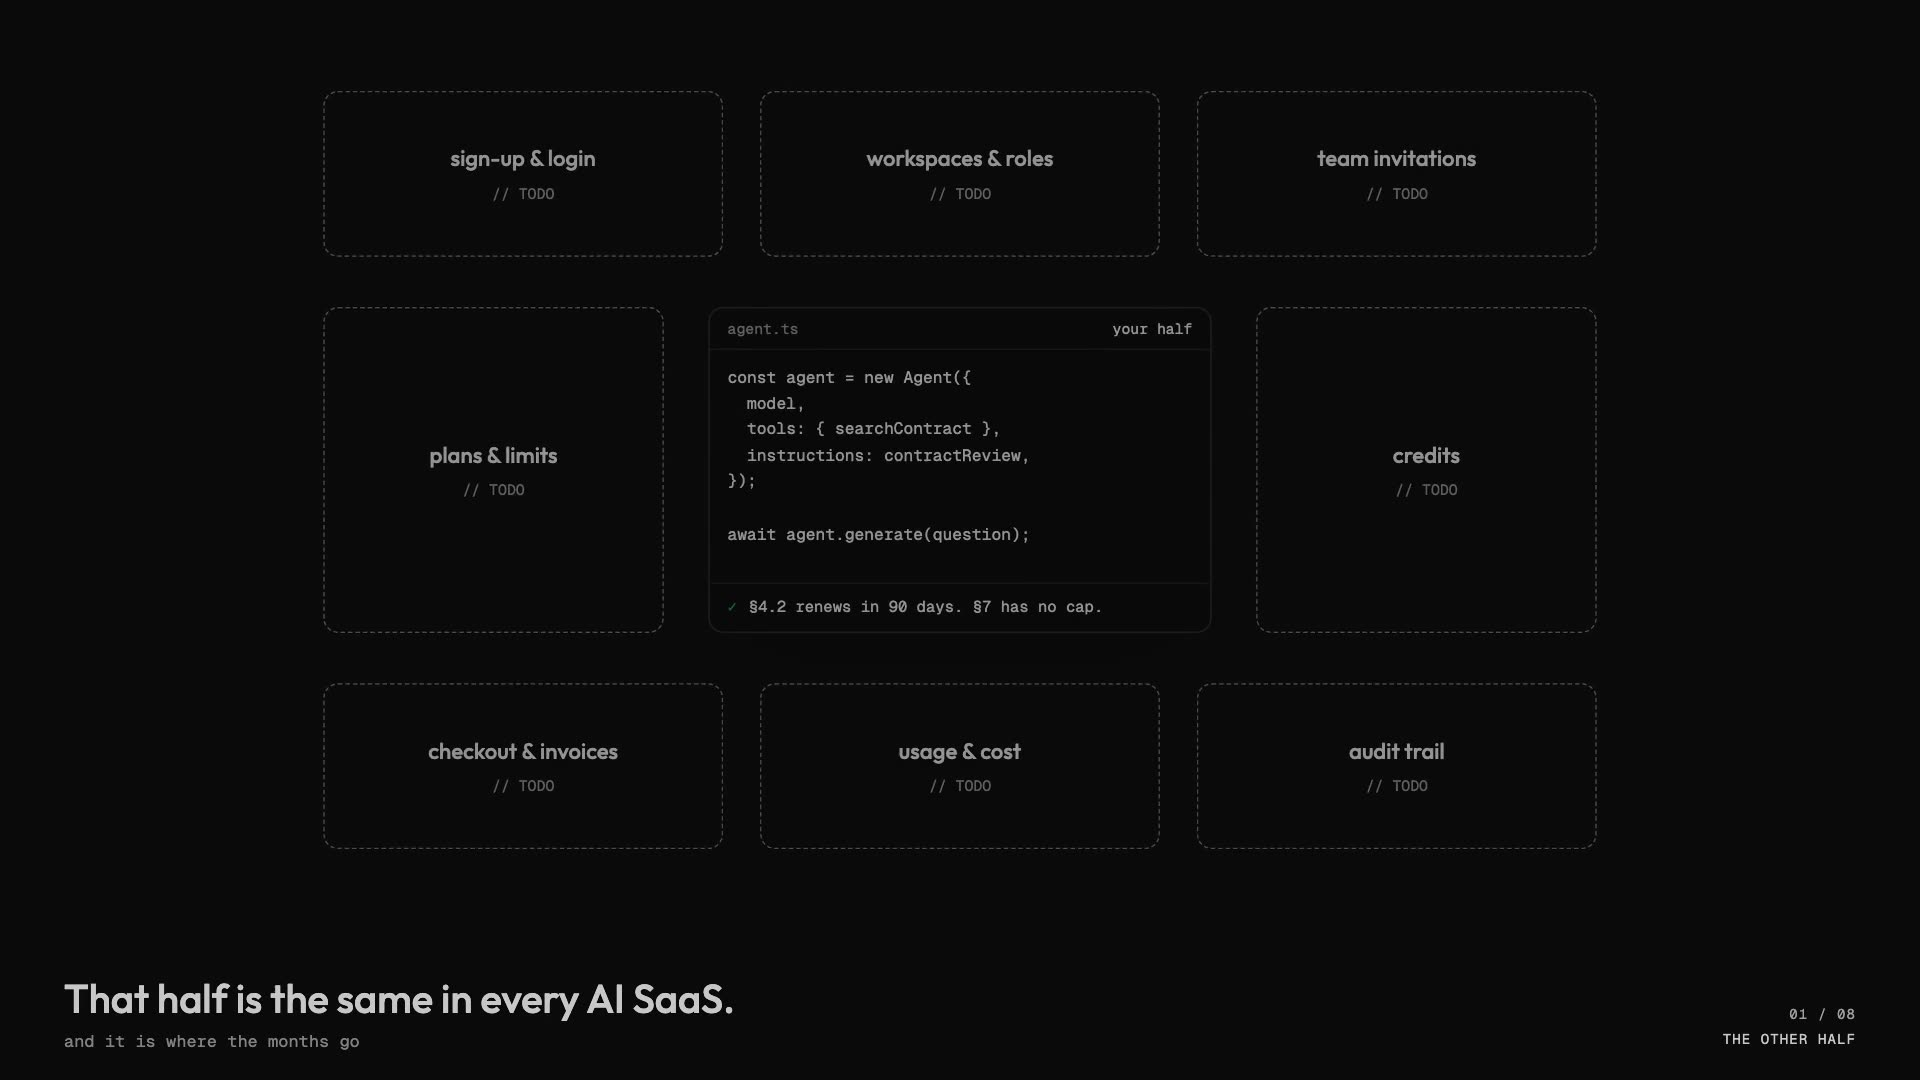
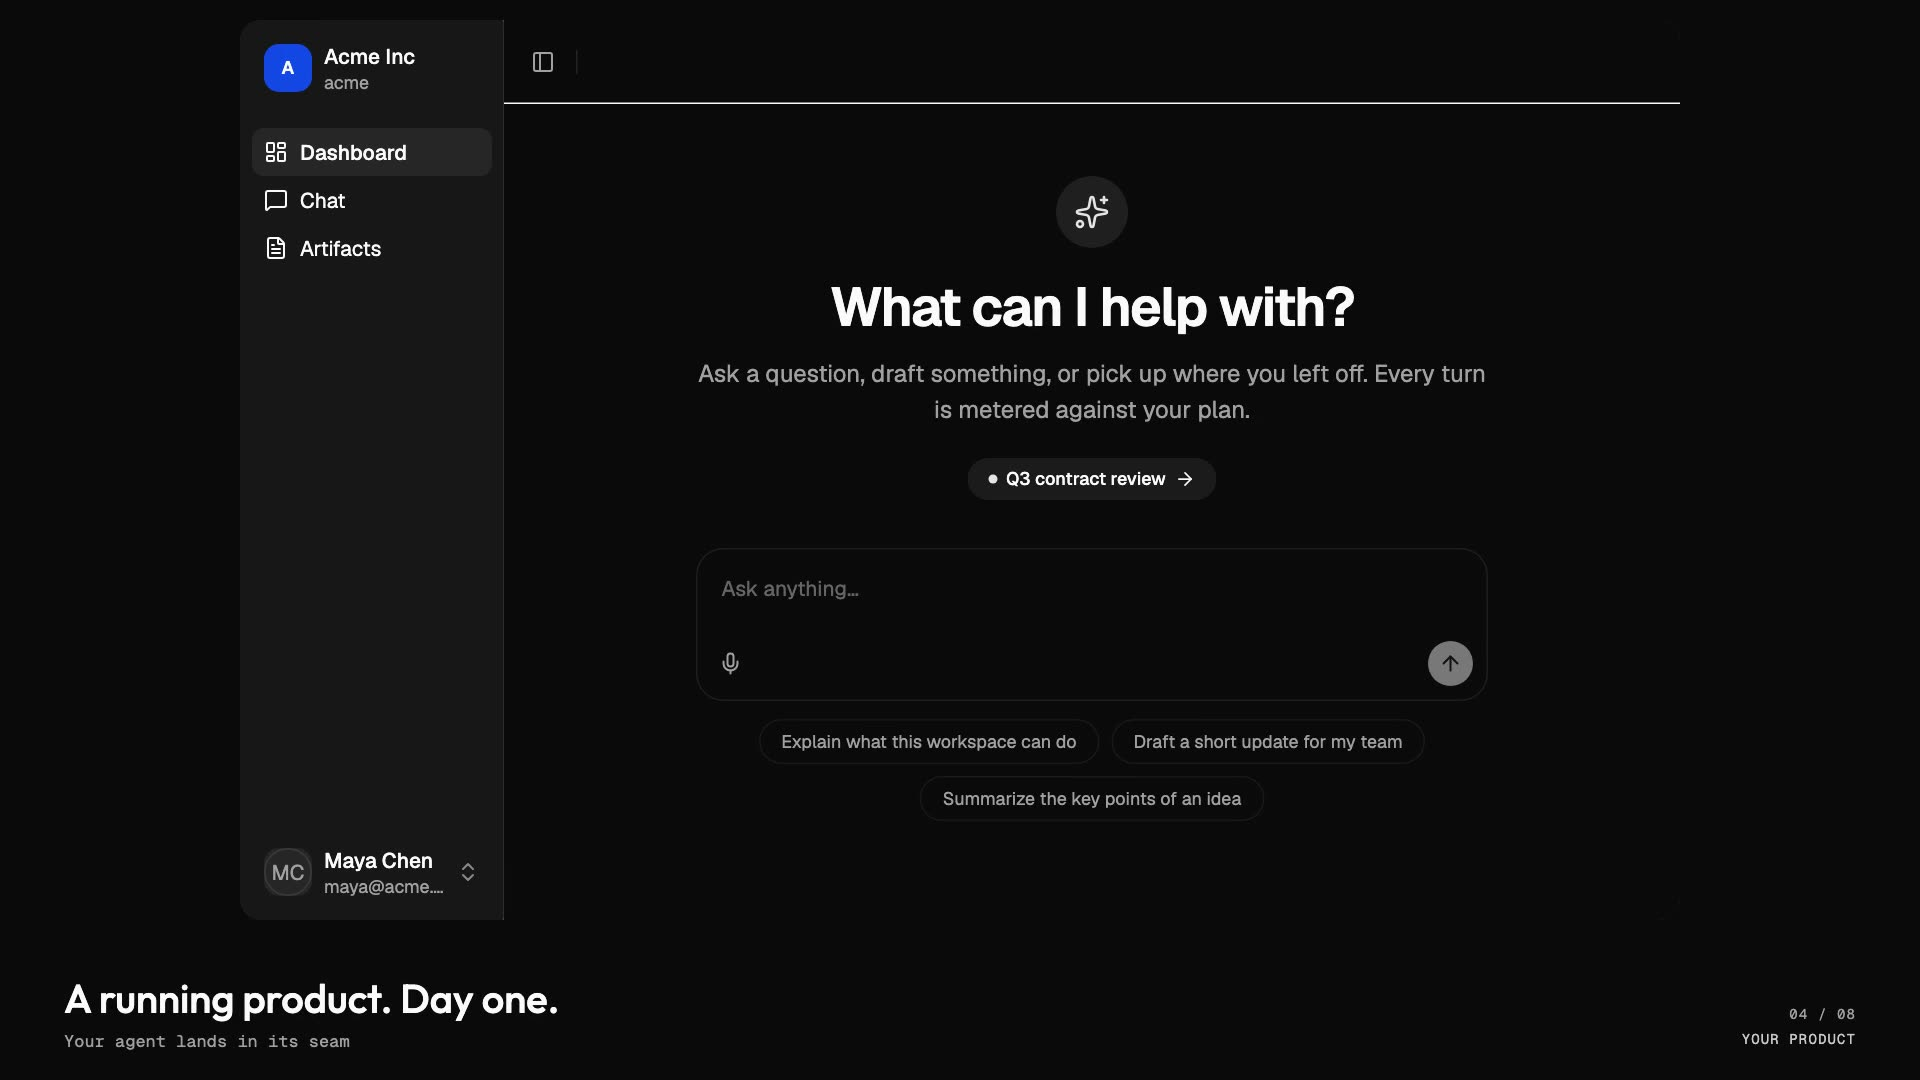
feat(site): the film has a claim, chapters, captions and a product poster

diff --git a/apps/website/src/lib/film.ts b/apps/website/src/lib/film.ts
@@ -1,0 +1,59 @@
+/**
+ * The film's eight acts: where each starts, in seconds, its title card
+ * and the line a muted viewer reads under it. The homepage seeks by
+ * `at`, and `public/film/film.en.vtt` carries the same lines as
+ * captions. tests/architecture/docs.test.ts holds the titles, lines and
+ * starts to the composition (tools/film/src/Film.tsx).
+ */
+export const FILM_SECONDS = 60;
+
+export const FILM_CHAPTERS = [
+  {
+    n: "01",
+    at: 0,
+    title: "The other half",
+    line: "Your agent works. It isn't a product yet.",
+  },
+  {
+    n: "02",
+    at: 7.2,
+    title: "One command",
+    line: "Intelligo ships that half. One command.",
+  },
+  {
+    n: "03",
+    at: 13.2,
+    title: "Pages assemble",
+    line: "Every page lands as your own source.",
+  },
+  {
+    n: "04",
+    at: 25.2,
+    title: "Your product",
+    line: "A running product. Day one.",
+  },
+  {
+    n: "05",
+    at: 30,
+    title: "The execution boundary",
+    line: "Your agent runs unmodified.",
+  },
+  {
+    n: "06",
+    at: 42,
+    title: "On the record",
+    line: "Every run, accounted for.",
+  },
+  {
+    n: "07",
+    at: 48,
+    title: "Make it yours",
+    line: "Make it yours — config, not forks.",
+  },
+  {
+    n: "08",
+    at: 54,
+    title: "Now build yours",
+    line: "You build the agent. Intelligo is everything around it.",
+  },
+] as const;

diff --git a/tests/architecture/docs.test.ts b/tests/architecture/docs.test.ts
@@ -339,6 +339,39 @@ describe("quoted evidence", async () => {
     ]);
   });
 
+  it("the film's acts and captions are the composition's", async () => {
+    const { FILM_CHAPTERS, FILM_SECONDS } = (await import(
+      path.join(SITE, "src/lib/film.ts")
+    )) as {
+      FILM_CHAPTERS: { at: number; title: string; line: string }[];
+      FILM_SECONDS: number;
+    };
+    const film = readFileSync(
+      path.join(ROOT, "tools/film/src/Film.tsx"),
+      "utf8"
+    );
+    const captions = readFileSync(
+      path.join(SITE, "public/film/film.en.vtt"),
+      "utf8"
+    );
+
+    const scenes = /^const SCENE = \{\n([\s\S]*?)^\};/m.exec(film)![1]!;
+    const starts = [...scenes.matchAll(/: \[([\d.]+),/g)].map(
+      (m) => Number(m[1]) * FILM_SECONDS
+    );
+    expect(FILM_CHAPTERS.map((chapter) => chapter.at)).toEqual(
+      starts.map((s) => Number(s.toFixed(1)))
+    );
+
+    for (const chapter of FILM_CHAPTERS) {
+      expect(film).toContain(`title: "${chapter.title}"`);
+      for (const sentence of chapter.line.split(/(?<=\.)\s+/)) {
+        expect(film).toContain(sentence);
+        expect(captions).toContain(sentence);
+      }
+    }
+  });
+
   it("every path a card installs is a target of the blocks it adds", () => {
     const registry = JSON.parse(
       readFileSync(path.join(PACKAGES_DIR, "registry/registry.json"), "utf8")

diff --git a/apps/website/src/lib/site.ts b/apps/website/src/lib/site.ts
@@ -34,11 +34,13 @@ export const SITE = {
   /**
    * The homepage film (tools/film, rendered with Remotion), one render
    * per theme, served from `public/film/` with a still shown before it
-   * plays. Re-render, then copy `tools/film/out/*.mp4` over these.
+   * plays and the script as a captions track. Re-render, then copy
+   * `tools/film/out/*.mp4` over these.
    */
   film: {
     light: { video: "/film/film-light.mp4", poster: "/film/poster-light.jpg" },
     dark: { video: "/film/film-dark.mp4", poster: "/film/poster-dark.jpg" },
+    captions: "/film/film.en.vtt",
   },
 } as const;
 

diff --git a/tools/film/README.md b/tools/film/README.md
@@ -57,13 +57,16 @@ After a re-render, refresh all of it:
 ```bash
 for t in light dark; do
   cp tools/film/out/film-$t.mp4 apps/website/public/film/film-$t.mp4
-  ffmpeg -y -ss 6.85 -i tools/film/out/film-$t.mp4 -frames:v 1 -q:v 4 apps/website/public/film/poster-$t.jpg
+  ffmpeg -y -ss 29 -i tools/film/out/film-$t.mp4 -frames:v 1 -q:v 4 apps/website/public/film/poster-$t.jpg
   ffmpeg -y -t 12.5 -i tools/film/out/film-$t.mp4 -vf "fps=12,scale=960:-1:flags=lanczos,split[a][b];[a]palettegen=max_colors=48:stats_mode=diff[p];[b][p]paletteuse=dither=none:diff_mode=rectangle" apps/website/public/film/teaser-$t.gif
 done
 ```
 
-The poster is the end of act 01 (the agent among its empty slots); the
-teaser GIF is acts 01–02, the README's autoplaying cut.
+The poster is the end of act 04 (the running shell under "A running
+product. Day one."), so the still already shows the product; the teaser
+GIF is acts 01–02, the README's autoplaying cut. The homepage's act
+buttons and captions read `apps/website/src/lib/film.ts` and
+`apps/website/public/film/film.en.vtt` — a script change moves all three.
 
 ## Data
 
